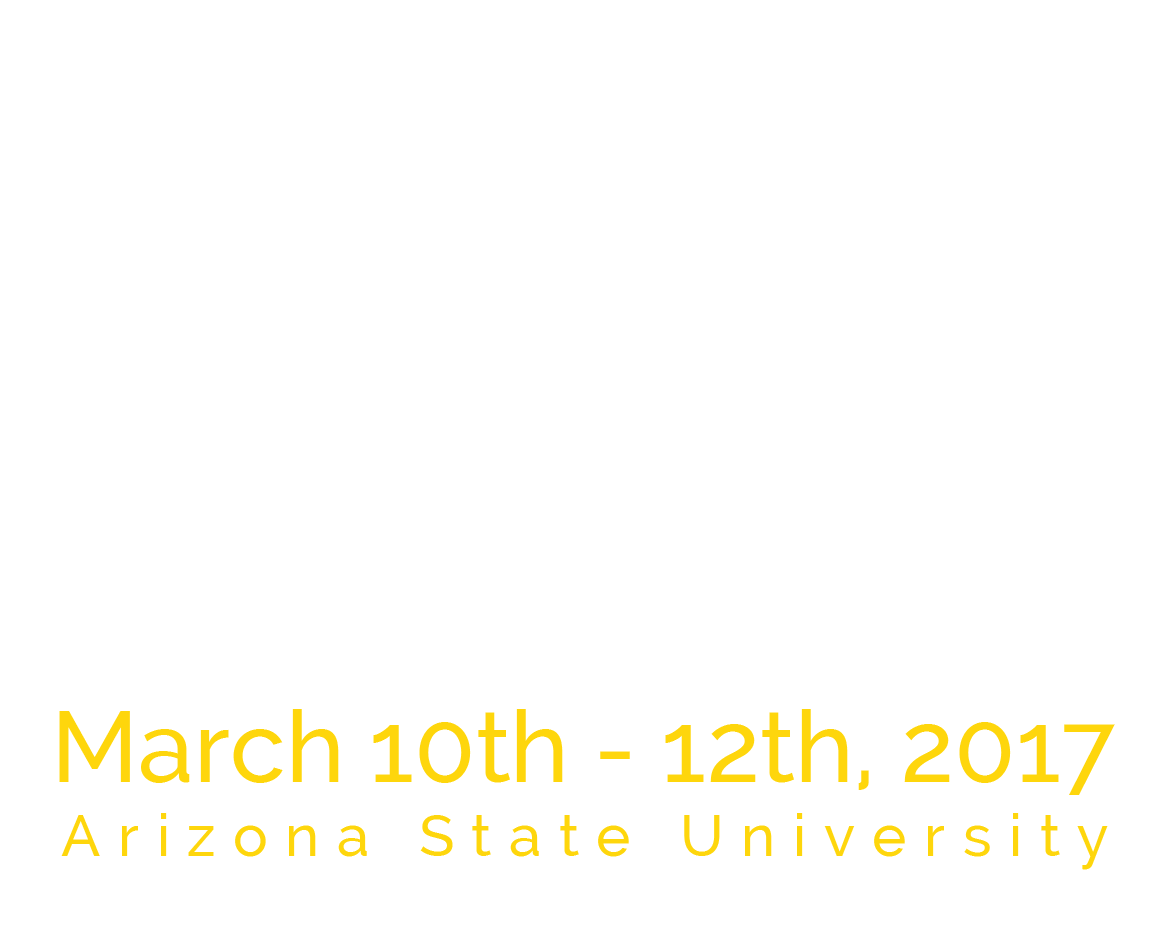
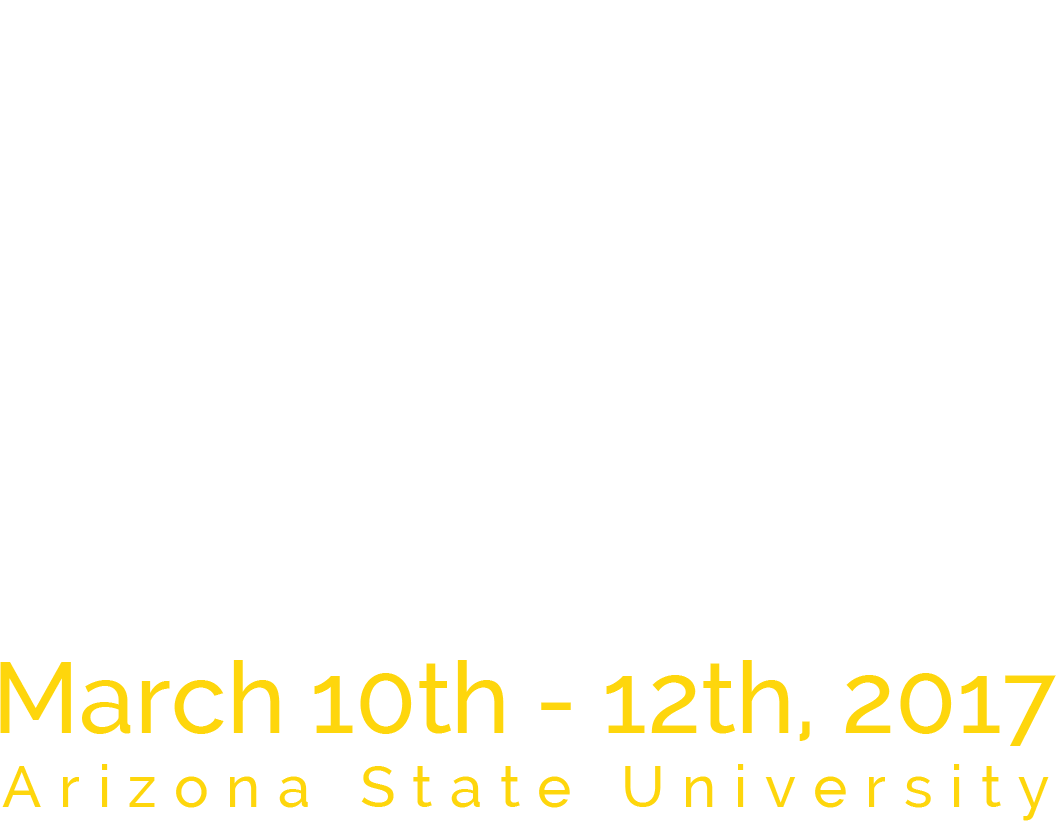
Header images with no margins

Changed region(s): [[0.0, 0.7308, 1.0, 1.0], [0.5938, 0.944, 1.0, 1.0], [0.0, 0.944, 0.3125, 1.0]]

diff --git a/static/css/header.section.css b/static/css/header.section.css
@@ -37,23 +37,10 @@
 	}
 }
 
-#hdr-pic-pos #hdr-pic {
-	padding-top: 30px;
-	width: 75vw;
-	height: 31.09019vw;
-	max-height: 100vh;
-	background-image: url("static/img/website_header.png");
-	background-size: contain;
-	background-position: 50% 100%;
-	background-repeat: no-repeat;
+#header-img {
+	padding: 1vh 3vw 2vh 3vw;
 }
 
-#hdr-pic-pos #hdr-pic-mobile {
-	width: 75vw;
-	height: 40.0vh;
-	max-height: 100vh;
-	background-image: url("static/img/mobile_website_header.png");
-	background-size: contain;
-	background-position: 50% 100%;
-	background-repeat: no-repeat;
+#header-img-mobile {
+	padding: 2vh 4vw 3vh 4vw;
 }

diff --git a/index.html b/index.html
@@ -36,10 +36,10 @@
             </div>
         </div>
         <div class="visible-xs visible-sm">
-            <img src="static/img/mobile_website_header.png" class="img-responsive" />
+            <img src="static/img/mobile_website_header.png" class="img-responsive" id="header-img-mobile" />
         </div>
         <div class="hidden-xs hidden-sm">
-            <img src="static/img/website_header.png" class="img-responsive" />
+            <img src="static/img/website_header.png" class="img-responsive" id="header-img" />
         </div>
         <a class="register-link" id="hdr-reg-btn"></a>
     </div>
